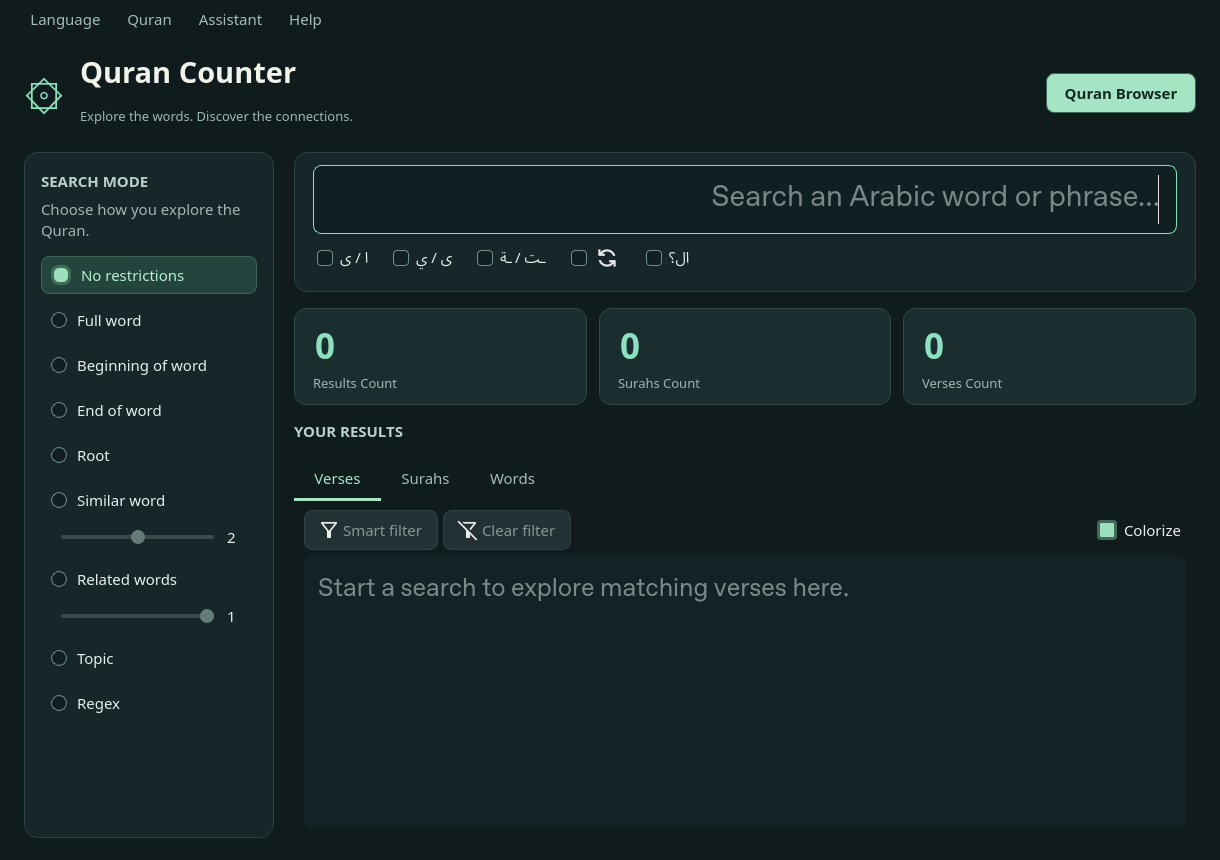
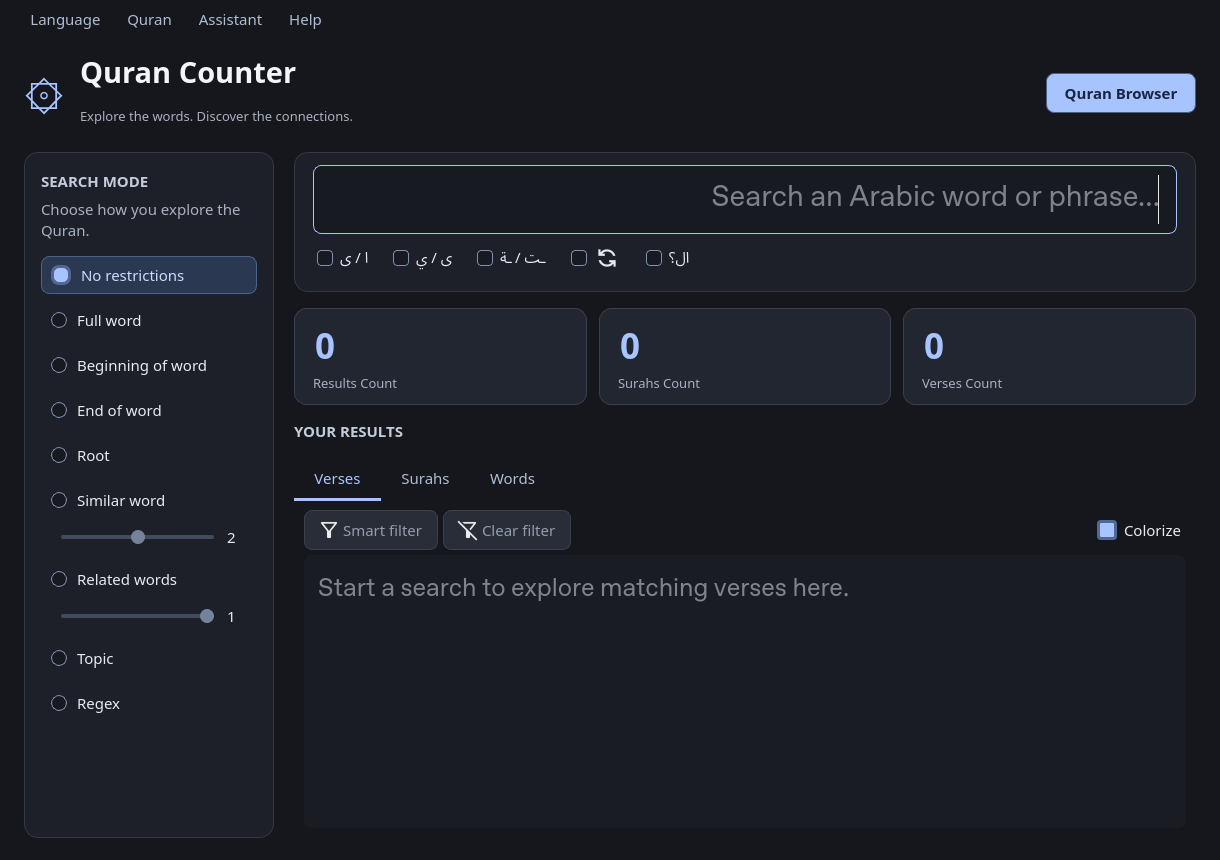
Replace green palette with charcoal and soft blue

diff --git a/gui/main_window/theme.py b/gui/main_window/theme.py
@@ -2,88 +2,88 @@
 
 STYLESHEET = """
 QWidget {
-    color: #e6eeeb;
+    color: #e7eaf1;
     font-family: "Segoe UI", "Noto Sans", sans-serif;
     font-size: 11pt;
 }
-QMainWindow, QWidget#centralwidget { background: #101b1d; }
+QMainWindow, QWidget#centralwidget { background: #15171c; }
 QWidget[arabic="true"] { font-family: "Noto Naskh Arabic"; font-size: 13pt; }
 QLabel, QCheckBox, QRadioButton { background: transparent; }
-QLabel[role="title"] { font-size: 22pt; font-weight: 600; color: #f3f4e9; }
-QLabel[role="subtitle"], QLabel[role="muted"] { color: #9fb6b1; }
-QLabel[role="subtitle"], QLabel[role="statLabel"] { color: #9fb6b1; font-size: 10pt; }
-QLabel[role="section"] { color: #b8d2c9; font-weight: 600; }
-QLabel#brandMark { color: #8de0bd; font-size: 30pt; }
+QLabel[role="title"] { font-size: 22pt; font-weight: 600; color: #f4f5f9; }
+QLabel[role="subtitle"], QLabel[role="muted"] { color: #a8b0c1; }
+QLabel[role="subtitle"], QLabel[role="statLabel"] { color: #a8b0c1; font-size: 10pt; }
+QLabel[role="section"] { color: #c3ccdd; font-weight: 600; }
+QLabel#brandMark { color: #a8c4ff; font-size: 30pt; }
 QFrame[role="card"], QScrollArea#searchSidebar {
-    background: #172629; border: 1px solid #2b4142; border-radius: 14px;
+    background: #1d2028; border: 1px solid #343945; border-radius: 14px;
 }
 QWidget#searchModes { background: transparent; }
-QFrame[role="stat"] { background: #1a2e30; border: 1px solid #304746; border-radius: 12px; }
+QFrame[role="stat"] { background: #222630; border: 1px solid #3a414e; border-radius: 12px; }
 QLineEdit {
-    background: #101f22; border: 1px solid #3a5353; border-radius: 8px;
-    padding: 7px 10px; selection-background-color: #34755e; selection-color: #ffffff;
+    background: #171a21; border: 1px solid #485162; border-radius: 8px;
+    padding: 7px 10px; selection-background-color: #3c568a; selection-color: #ffffff;
 }
-QLineEdit:focus { border: 1px solid #8de0bd; }
+QLineEdit:focus { border: 1px solid #a8c4ff; }
 QLineEdit#searchWord { font-family: "Noto Naskh Arabic"; font-size: 22pt; padding: 8px 14px; }
 QLineEdit[role="count"] {
-    background: transparent; border: none; color: #8de0bd; font-size: 26pt;
+    background: transparent; border: none; color: #a8c4ff; font-size: 26pt;
     font-family: "Segoe UI", "Noto Sans", sans-serif; font-weight: 600; padding: 0;
 }
-QLineEdit:disabled { color: #b8d2c9; background: #203438; }
+QLineEdit:disabled { color: #c3ccdd; background: #282e3a; }
 QLineEdit#wordSum, QLineEdit#surahResultsSum, QLineEdit#topicSum { padding: 2px 8px; }
 QPushButton, QToolButton {
-    background: #24473e; border: 1px solid #3c6556; border-radius: 8px;
-    color: #e0f4e9; padding: 7px 12px;
+    background: #2c3851; border: 1px solid #4b6085; border-radius: 8px;
+    color: #e5edff; padding: 7px 12px;
 }
-QPushButton:hover, QToolButton:hover { background: #305b4c; border-color: #8de0bd; }
-QPushButton:pressed, QToolButton:pressed { background: #386e59; }
-QPushButton:focus, QToolButton:focus { border: 1px solid #c8ddb5; }
-QPushButton:disabled { background: #223133; border-color: #304244; color: #829894; }
-QToolButton#browseButton { background: #a6e5c4; color: #122b25; font-weight: 600; }
-QToolButton#browseButton:hover { background: #c4f1d8; }
+QPushButton:hover, QToolButton:hover { background: #394b6d; border-color: #a8c4ff; }
+QPushButton:pressed, QToolButton:pressed { background: #465f8c; }
+QPushButton:focus, QToolButton:focus { border: 1px solid #c8d8ff; }
+QPushButton:disabled { background: #282d37; border-color: #39414e; color: #929caf; }
+QToolButton#browseButton { background: #a8c4ff; color: #182642; font-weight: 600; }
+QToolButton#browseButton:hover { background: #c8daff; }
 QCheckBox { spacing: 7px; padding: 4px; }
 QRadioButton { spacing: 10px; padding: 7px 9px; border: 1px solid transparent; border-radius: 8px; }
-QRadioButton:hover { background: #223a3a; }
-QRadioButton:checked { background: #24453e; color: #b5efcd; border-color: #3b6556; }
-QRadioButton:focus, QCheckBox:focus { border: 1px solid #8de0bd; border-radius: 6px; }
-QRadioButton:disabled, QCheckBox:disabled { color: #728b86; }
+QRadioButton:hover { background: #29313e; }
+QRadioButton:checked { background: #2b3851; color: #c9dbff; border-color: #4b628a; }
+QRadioButton:focus, QCheckBox:focus { border: 1px solid #a8c4ff; border-radius: 6px; }
+QRadioButton:disabled, QCheckBox:disabled { color: #8792a6; }
 QRadioButton::indicator, QCheckBox::indicator {
-    width: 14px; height: 14px; border: 1px solid #6f9187; background: #101f22;
+    width: 14px; height: 14px; border: 1px solid #8191ad; background: #171a21;
 }
 QRadioButton::indicator { border-radius: 8px; }
 QCheckBox::indicator { border-radius: 4px; }
 QRadioButton::indicator:checked, QCheckBox::indicator:checked {
-    background: #9de0bb; border: 3px solid #426c58;
+    background: #a8c4ff; border: 3px solid #506994;
 }
-QSlider::groove:horizontal { background: #364d4b; height: 4px; border-radius: 2px; }
-QSlider::handle:horizontal { background: #a6e5c4; width: 14px; margin: -5px 0; border-radius: 7px; }
-QSlider::handle:horizontal:disabled { background: #647b77; }
-QSlider:focus { border: 1px solid #8de0bd; border-radius: 4px; }
-QTabWidget::pane { background: #172629; border: 1px solid #2b4142; border-radius: 10px; top: -1px; }
-QTabBar::tab { background: transparent; color: #a3bdb5; padding: 10px 20px; border-bottom: 3px solid transparent; }
-QTabBar::tab:selected { color: #a6e5c4; border-bottom-color: #a6e5c4; }
-QTabBar::tab:hover { background: #203638; }
+QSlider::groove:horizontal { background: #424c5e; height: 4px; border-radius: 2px; }
+QSlider::handle:horizontal { background: #a8c4ff; width: 14px; margin: -5px 0; border-radius: 7px; }
+QSlider::handle:horizontal:disabled { background: #758299; }
+QSlider:focus { border: 1px solid #a8c4ff; border-radius: 4px; }
+QTabWidget::pane { background: #1d2028; border: 1px solid #343945; border-radius: 10px; top: -1px; }
+QTabBar::tab { background: transparent; color: #b0bdd3; padding: 10px 20px; border-bottom: 3px solid transparent; }
+QTabBar::tab:selected { color: #a8c4ff; border-bottom-color: #a8c4ff; }
+QTabBar::tab:hover { background: #28303f; }
 QTextBrowser, QTableWidget {
-    background: #142225; alternate-background-color: #1b2d30; color: #e6eeeb;
+    background: #191c23; alternate-background-color: #222731; color: #e7eaf1;
     border: none; border-radius: 8px; padding: 10px;
-    selection-background-color: #335b4c; selection-color: #f0fff5; gridline-color: #2b4142;
+    selection-background-color: #354a72; selection-color: #f2f6ff; gridline-color: #343945;
 }
 QTextBrowser#foundVerses { font-family: "Noto Naskh Arabic"; font-size: 19pt; }
-QTableWidget::item { padding: 8px; border-bottom: 1px solid #263e3f; }
-QTableWidget::item:selected { background: #335b4c; color: #f0fff5; }
-QHeaderView { background: #213a3b; }
-QHeaderView::section { background: #213a3b; color: #b9d8cb; border: none; padding: 9px; }
-QTableCornerButton::section { background: #213a3b; border: none; }
-QMenuBar { background: #101b1d; color: #a3bdb5; padding: 3px 14px; }
+QTableWidget::item { padding: 8px; border-bottom: 1px solid #313948; }
+QTableWidget::item:selected { background: #354a72; color: #f2f6ff; }
+QHeaderView { background: #2b3342; }
+QHeaderView::section { background: #2b3342; color: #c5d3ed; border: none; padding: 9px; }
+QTableCornerButton::section { background: #2b3342; border: none; }
+QMenuBar { background: #15171c; color: #b0bdd3; padding: 3px 14px; }
 QMenuBar::item { padding: 6px 10px; background: transparent; }
-QMenuBar::item:selected, QMenu::item:selected { background: #2b5146; border-radius: 5px; }
-QMenu { background: #1a2e30; border: 1px solid #3a5353; padding: 6px; }
+QMenuBar::item:selected, QMenu::item:selected { background: #334566; border-radius: 5px; }
+QMenu { background: #222630; border: 1px solid #485162; padding: 6px; }
 QMenu::item { padding: 7px 20px; }
-QToolTip { background: #e3f0e6; color: #17382e; border: none; padding: 6px; font-size: 11pt; }
+QToolTip { background: #e6ecf8; color: #23334f; border: none; padding: 6px; font-size: 11pt; }
 QScrollBar:vertical { background: transparent; width: 8px; margin: 2px; }
 QScrollBar:horizontal { background: transparent; height: 8px; margin: 2px; }
-QScrollBar::handle { background: #46645d; border-radius: 3px; min-height: 24px; min-width: 24px; }
-QScrollBar::handle:hover { background: #719588; }
+QScrollBar::handle { background: #53627a; border-radius: 3px; min-height: 24px; min-width: 24px; }
+QScrollBar::handle:hover { background: #8295b5; }
 QScrollBar::add-line, QScrollBar::sub-line { width: 0; height: 0; }
 QScrollBar::add-page, QScrollBar::sub-page { background: transparent; }
 """

diff --git a/gui/main_window/modern_main_window.py b/gui/main_window/modern_main_window.py
@@ -122,7 +122,7 @@ class Ui_MainWindow(DesignerUi):
             value.setFocusPolicy(Qt.FocusPolicy.NoFocus)
             value.setPlaceholderText("0")
             palette = value.palette()
-            palette.setColor(QPalette.ColorRole.PlaceholderText, QColor("#8de0bd"))
+            palette.setColor(QPalette.ColorRole.PlaceholderText, QColor("#a8c4ff"))
             value.setPalette(palette)
             value.setMinimumWidth(0)
             value.setSizePolicy(QSizePolicy.Policy.Ignored, QSizePolicy.Policy.Fixed)

diff --git a/README.md b/README.md
@@ -4,7 +4,7 @@
 
 **Quran counter** is a tool for fast and flexible semantic and syntactic search in the Holy Quran (`exe` download link [at the bottom](#notes)).
 
-The desktop interface supports English and Arabic, with mirrored layouts, an emerald theme, a dedicated search-mode panel, and result summary cards. Press **Ctrl+F** to focus search; results still update as you type.
+The desktop interface supports English and Arabic, with mirrored layouts, a charcoal and slate theme with soft blue accents, a dedicated search-mode panel, and result summary cards. Press **Ctrl+F** to focus search; results still update as you type.
 
 <img alt="Modern English interface" src="docs/ui/english.png" width="600">
 <img alt="Modern Arabic interface" src="docs/ui/arabic.png" width="600">
